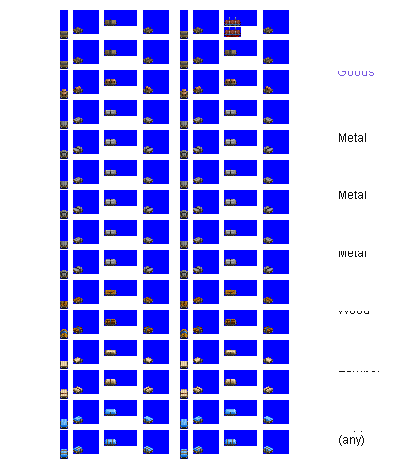
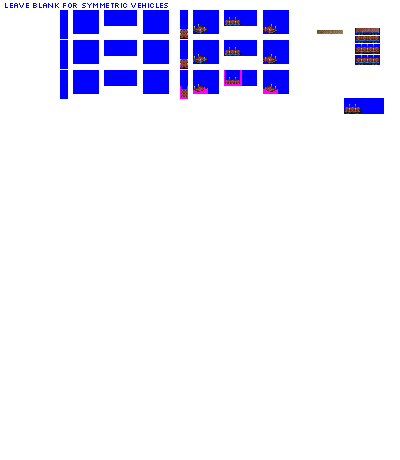
Change: sprites complete for NG flat car

diff --git a/src/vehicles/flat_cars.py b/src/vehicles/flat_cars.py
@@ -7,12 +7,13 @@ def main():
                              base_numeric_id=1170,
                              gen=1,
                              subtype='A',
-                             track_type='NG')
+                             track_type='NG',
+                             sprites_complete=True)
 
     consist.add_unit(type=FreightCar,
                      cargo_length=4,
                      vehicle_length=4,
-                     chassis='2_axle_filled_16px')
+                     chassis='4_axle_ng_16px')
 
     #--------------- pony ----------------------------------------------------------------------
     consist = FlatCarConsist(roster='pony',
